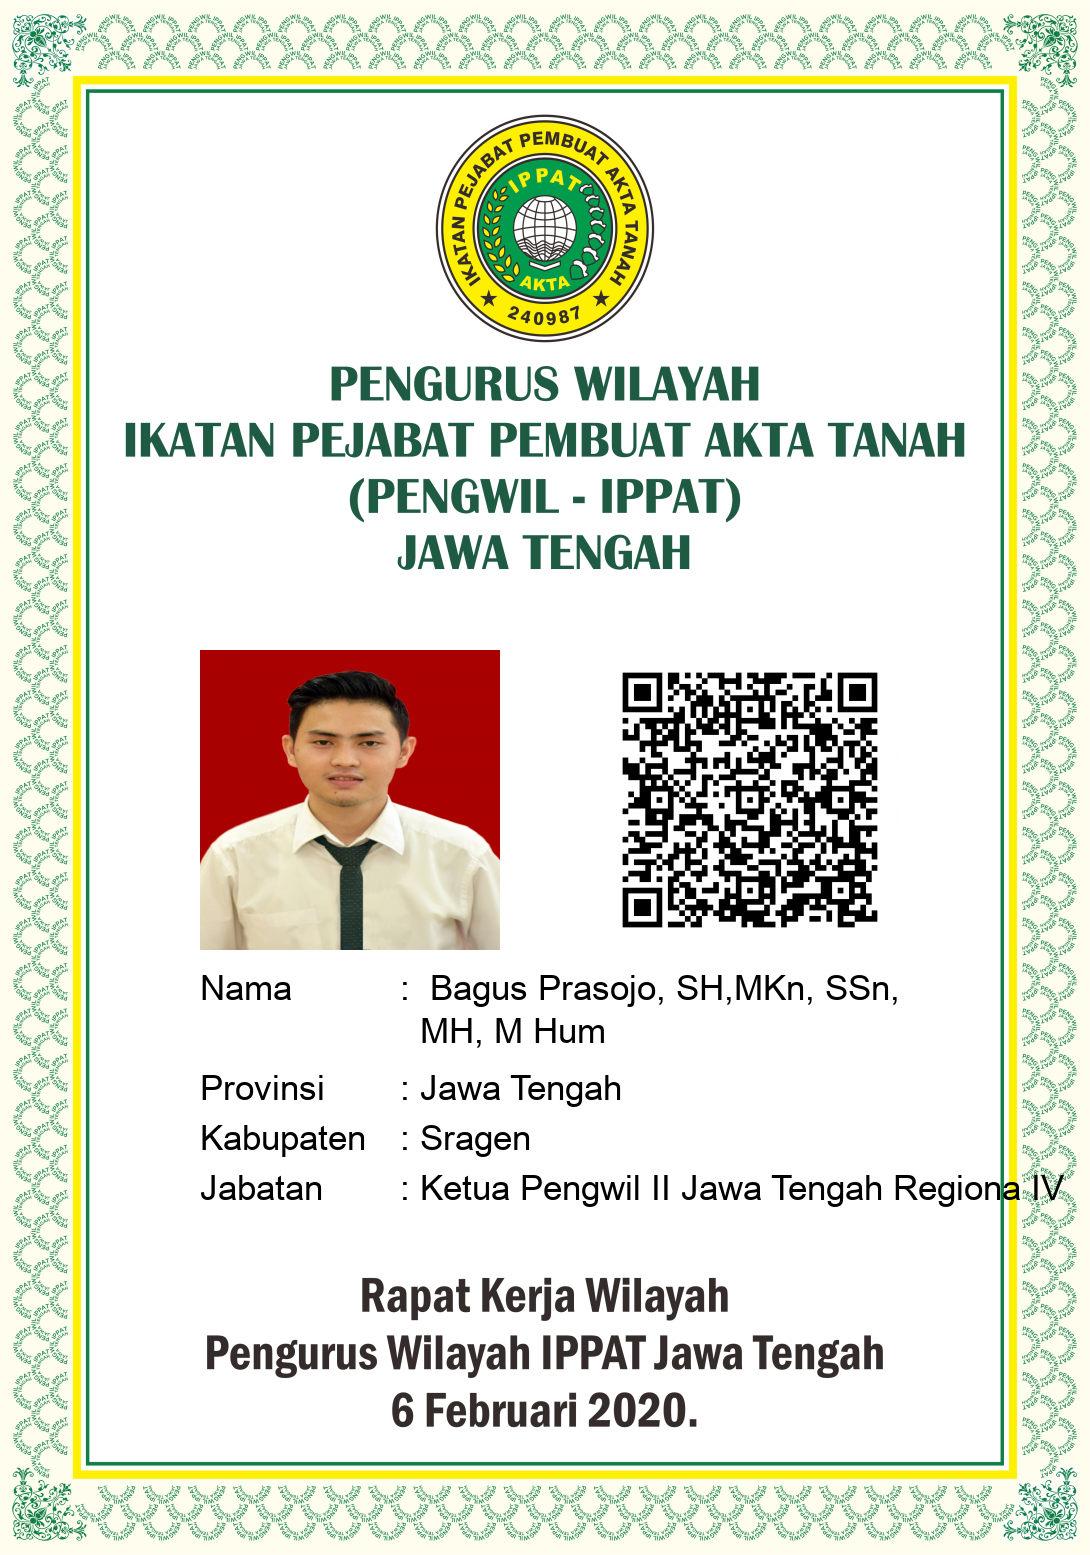
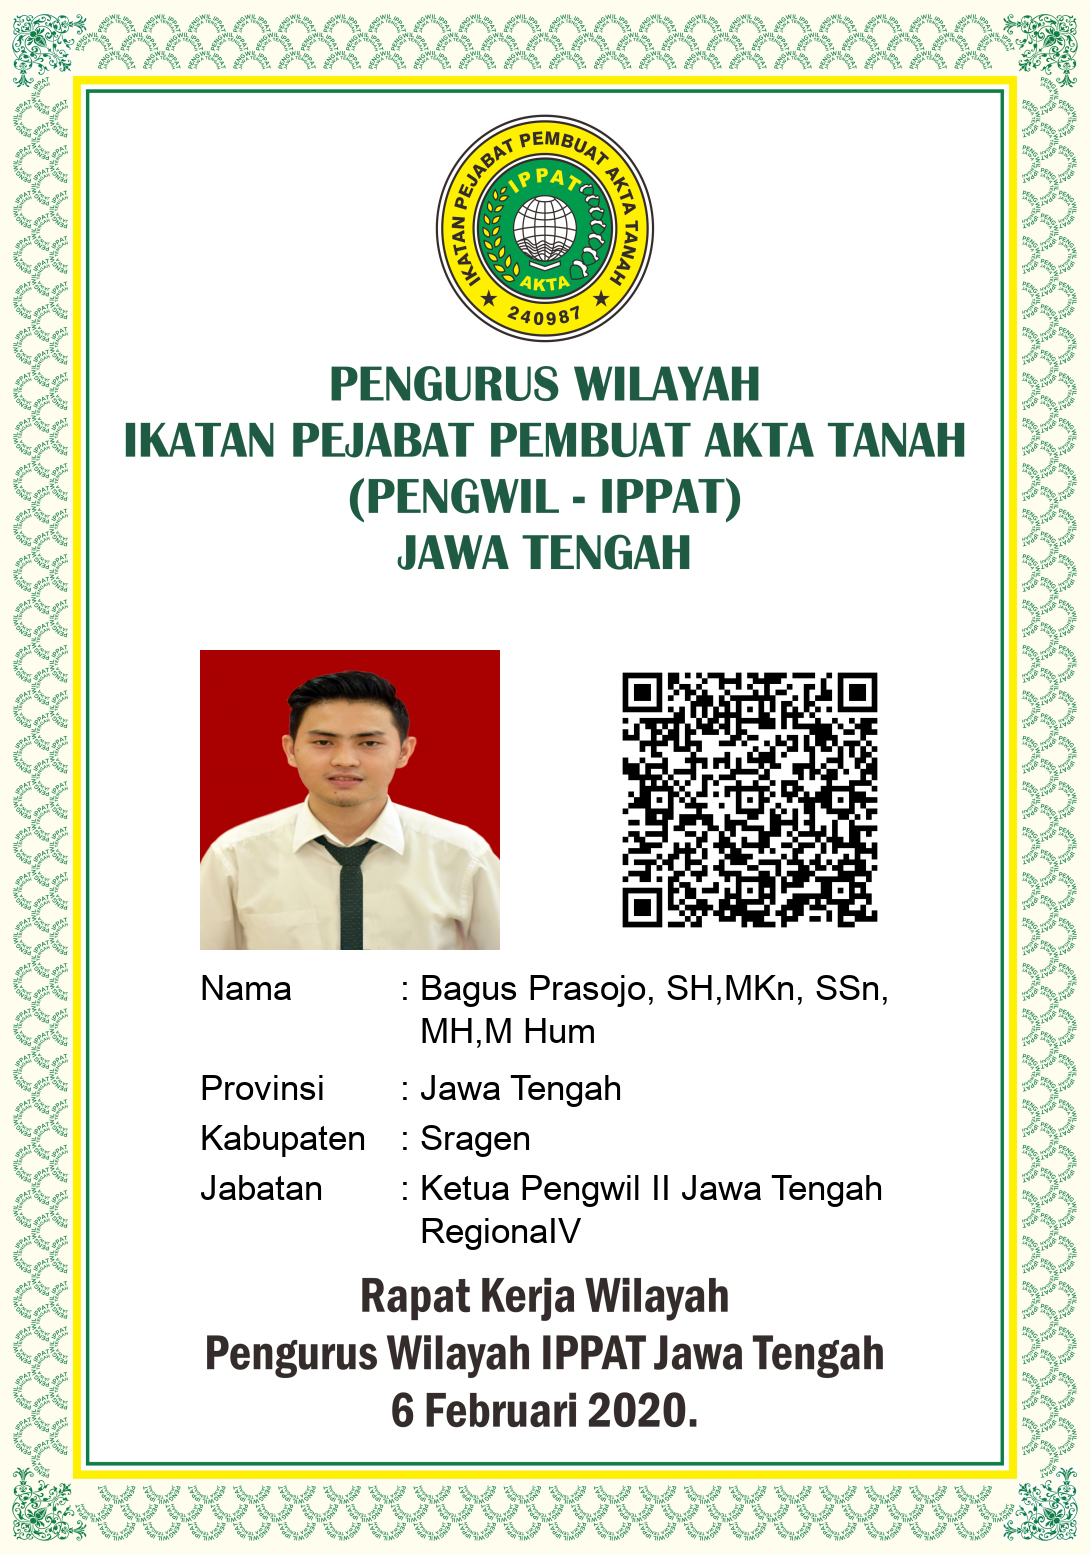
admin bisa cetak id card

Changed region(s): [[0.3743, 0.6174, 0.811, 0.6791], [0.811, 0.7408, 0.967, 0.7717], [0.3743, 0.7717, 0.5303, 0.8026]]

diff --git a/css/style.css b/css/style.css
@@ -1744,7 +1744,11 @@ body{
 	border:none;
 }
 
-
+.pendaftaran .bawah .kiri h1{
+	color: red;
+	font-family: 'GothamBook';
+	font-size:16px;
+}
 
 .pendaftaran .bawah .kiri form{
 	float:left;

diff --git a/pendaftaran_id_card.php b/pendaftaran_id_card.php
@@ -46,8 +46,36 @@ $page_name = 'pendaftaran';
             }
         }
 
+        function WordWrap_BP($AKata){
+            $text_new = trim($AKata);
+
+            $isSudahTurun = 0;
+            if (strlen($text_new) >= 29) {
+                $text_a = explode(' ', trim($text_new));
+                
+                $text_new = '';
+                foreach($text_a as $word){
+                    #$text_new = $text_new .' '.$word;
+                    if(strlen($text_new .' '.$word) > 29 and $isSudahTurun == 0){
+                        $text_new .= "\n".$word;
+                        $isSudahTurun = 1;
+                    } else {
+                        $text_new .= $word . " ";
+                    }
+                }
+            }
+            
+            return $text_new;
+        }
+
         $peserta = new peserta();
-        $peserta->id = $_SESSION['id'];
+
+        $id_id_card = isset($_GET['id_id_card']) ? $_GET['id_id_card'] : '';
+        if ($id_id_card == ''){
+            $peserta->id = $_SESSION['id'];
+        } else {
+            $peserta->id = $id_id_card;
+        }
 
         $db_akses = new db_akses();
         $db_akses->LoadByID($peserta);
@@ -105,23 +133,27 @@ $page_name = 'pendaftaran';
         Imagettftext($frame, $font_size, 0, $start_x, $start_y, $black, $font, "Nama");
         Imagettftext($frame, $font_size, 0, $start_x + 200, $start_y  , $black, $font, ":");
         
-        $isSudahTurun = 0;
-        if (strlen($peserta->nama) >= 29) {
-            $text_a = explode(' ', trim($peserta->nama));
-            $text_new = '';
-            foreach($text_a as $word){
-                #$text_new = $text_new .' '.$word;
-                if(strlen($text_new .' '.$word) > 29 and $isSudahTurun == 0){
-                    $text_new .= "\n".$word;
-                    $isSudahTurun = 1;
-                } else {
-                    $text_new .= " ".$word;
-                }
-            }
-        }
-        Imagettftext($frame, $font_size, 0, $start_x + 220, $start_y  , $black, $font, $text_new);
+        // $text_new = $peserta->nama;
 
-        if ($isSudahTurun == 1){
+        // $isSudahTurun = 0;
+        // if (strlen($peserta->nama) >= 29) {
+        //     $text_a = explode(' ', trim($peserta->nama));
+            
+        //     $text_new = '';
+        //     foreach($text_a as $word){
+        //         #$text_new = $text_new .' '.$word;
+        //         if(strlen($text_new .' '.$word) > 29 and $isSudahTurun == 0){
+        //             $text_new .= "\n".$word;
+        //             $isSudahTurun = 1;
+        //         } else {
+        //             $text_new .= " ".$word;
+        //         }
+        //     }
+        // } 
+
+        Imagettftext($frame, $font_size, 0, $start_x + 220, $start_y  , $black, $font, WordWrap_BP($peserta->nama));
+
+        if (strlen(trim($peserta->nama)) >= 29) {
             $start_y = $start_y + 50;
         }
         
@@ -138,7 +170,7 @@ $page_name = 'pendaftaran';
         $start_y = $start_y + 50;
         Imagettftext($frame, $font_size, 0, $start_x, $start_y, $black, $font, "Jabatan");
         Imagettftext($frame, $font_size, 0, $start_x + 200, $start_y, $black, $font, ":");
-        Imagettftext($frame, $font_size, 0, $start_x + 220, $start_y, $black, $font, $peserta->jabatan);
+        Imagettftext($frame, $font_size, 0, $start_x + 220, $start_y, $black, $font, WordWrap_BP($peserta->jabatan));
 
         # Save the image to a file
 

diff --git a/pendaftaran_display.php b/pendaftaran_display.php
@@ -84,7 +84,7 @@
                         </div>
                     </div>
                     <div class="kiri">
-                        <form action="pendaftaran_lengkap_proses.php" method="post">
+                        <form>
                             Nama Lengkap Dengan Gelar Akademik : <br>
                             <div class="area">                            
                                 <input type="text" value="<?php echo $peserta->nama?>" name="nama" class="input" placeholder=" Nama Lengkap Sesuai KTP & Gelar">
@@ -101,13 +101,18 @@
                             </div>
 
                             <div class="area">
-                                Propinsi : <br>    
+                                Propinsi Jabatan PPAT: <br>    
                                 <input type="text" value="<?php echo $peserta->propinsi?>" name="propinsi" class="input" placeholder=" Propinsi">
                             </div>
 
                             <div class="area">
-                                Kabupaten / Kota : <br>    
+                                Kabupaten / Kota Jabatan PPAT: <br>    
                                 <input type="text" value="<?php echo $peserta->kabupaten?>" name="kabupaten" class="input" placeholder=" Kabupaten / Kota">
+                            </div>
+
+                            <div class="area">
+                                Alamat Kantor : <br>
+                                <textarea  name = "alamat_kantor" rows="3" cols="20"><?php echo $peserta->alamat_kantor?></textarea>
                             </div>
 
                             <div class="area">
@@ -162,14 +167,10 @@
                                 No Telp Kantor : <br>
                                 <input type="text" value="<?php echo $peserta->no_telp_kantor?>" name="no_telp_kantor" class="input" placeholder=" No Telp Kantor">
                             </div>
-
-                            Dimohon mengisi data dengan benar, kesalahan data bukan tanggung jawab panitia<br/><br/>
-                            
-
-                            <div class="area">
-                                <input type="submit" class="submit" value="UPDATE">
-                            </div>
                         </form>
+
+
+                            
                     </div>
                 </div>	
             </div>    

diff --git a/pendaftaran_lengkap.php b/pendaftaran_lengkap.php
@@ -105,13 +105,18 @@
                             </div>
 
                             <div class="area">
-                                Propinsi : <br>    
+                                Propinsi Jabatan PPAT: <br>    
                                 <input type="text" value="<?php echo $peserta->propinsi?>" name="propinsi" class="input" placeholder=" Propinsi">
                             </div>
 
                             <div class="area">
-                                Kabupaten / Kota : <br>    
+                                Kabupaten / Kota Jabatan PPAT: <br>    
                                 <input type="text" value="<?php echo $peserta->kabupaten?>" name="kabupaten" class="input" placeholder=" Kabupaten / Kota">
+                            </div>
+
+                            <div class="area">
+                                Alamat Kantor : <br>
+                                <textarea  name = "alamat_kantor" rows="3" cols="20"><?php echo $peserta->alamat_kantor?></textarea>
                             </div>
 
                             <div class="area">
@@ -128,7 +133,7 @@
                             </div>
 
                             <div class="area">
-                                Jabatan : <br>    
+                                Jabatan : <a href='https://pengwilippatjateng.org/pendaftaran/data/module/004%2021%2012%2019%20Penyusunan%20ProKer%20Pengwil%20IPPAT%20Jateng%20v%2029%2001%202020.pdf' target="_blank"> Lihat Daftar Jabatan</a><br>    
                                 <input type="text" value="<?php echo $peserta->jabatan?>" name="jabatan" class="input" placeholder=" Jabatan">
                             </div>
 

diff --git a/pendaftaran_lengkap_proses.php b/pendaftaran_lengkap_proses.php
@@ -12,6 +12,7 @@ $tempat_lahir       = $db_akses->mysqli_real_escape_string($_POST['tempat_lahir'
 
 $propinsi           = $db_akses->mysqli_real_escape_string($_POST['propinsi']);
 $kabupaten          = $db_akses->mysqli_real_escape_string($_POST['kabupaten']);
+$alamat_kantor      = $db_akses->mysqli_real_escape_string($_POST['alamat_kantor']);
 
 $fungsi             = $db_akses->mysqli_real_escape_string($_POST['fungsi']);
 $jabatan            = $db_akses->mysqli_real_escape_string($_POST['jabatan']);
@@ -55,6 +56,12 @@ if ($kabupaten == '')
     exit("<script>window.alert('Kabupaten belum diisi, mohon dilengkapi terlebih dahulu');
     document.location.href='javascript:history.go(-1)';</script>");
 } 
+
+if ($alamat_kantor == '')
+{
+    exit("<script>window.alert('Alamat Kantor belum diisi, mohon dilengkapi terlebih dahulu');
+    document.location.href='javascript:history.go(-1)';</script>");
+}
 
 if ($alamat_rumah == '')
 {
@@ -114,6 +121,7 @@ if ($nama == '' or $tempat_lahir == '' or $tgl_lahir == '')
 
     $peserta->propinsi          = $propinsi;
     $peserta->kabupaten         = $kabupaten;
+    $peserta->alamat_kantor     = $alamat_kantor;
 
     $peserta->fungsi            = $fungsi;
     $peserta->jabatan           = $jabatan;

diff --git a/model/peserta.php b/model/peserta.php
@@ -87,6 +87,7 @@ class peserta implements DAO{
     public $kabupaten;
 
     public $alamat_rumah;
+    public $alamat_kantor;
     public $no_ktp;
 
     public $fungsi;
@@ -125,6 +126,7 @@ class peserta implements DAO{
         $sSQL = $sSQL . " , email = '" . $this->email . "'";
         $sSQL = $sSQL . " , tgl_lahir = '" . $this->tgl_lahir . "'";
         $sSQL = $sSQL . " , alamat_rumah = '" . $this->alamat_rumah . "'";
+        $sSQL = $sSQL . " , alamat_kantor = '" . $this->alamat_kantor . "'";
 
         $sSQL = $sSQL . " , propinsi = '" . $this->propinsi . "'";
         $sSQL = $sSQL . " , kabupaten = '" . $this->kabupaten . "'";
@@ -168,6 +170,8 @@ class peserta implements DAO{
             $this->tempat_lahir      = $AObjectSQLArray['tempat_lahir'];
             $this->tgl_lahir         = $AObjectSQLArray['tgl_lahir'];
             $this->alamat_rumah      = $AObjectSQLArray['alamat_rumah'];
+
+            $this->alamat_kantor     = $AObjectSQLArray['alamat_kantor'];
 
             $this->propinsi          = $AObjectSQLArray['propinsi'];
             $this->kabupaten         = $AObjectSQLArray['kabupaten'];

diff --git a/pendaftaran_list.php b/pendaftaran_list.php
@@ -36,7 +36,7 @@ $page_name = 'pendaftaran';
             <div class="bawah">                
 
             <?php
-                $q5 = "SELECT * FROM seminar_peserta";
+                $q5 = "SELECT * FROM seminar_peserta order by nama";
                 $r5 = $db_akses->OpenQuery($q5);
                 echo '<div style="overflow-x:auto;">
                 <table border = 1 class="flyer" cellpadding="20" cellspacing="0" align="left" width="100%">
@@ -82,6 +82,7 @@ $page_name = 'pendaftaran';
                           <tr>
                           <td colspan=4 align="left"> '.$row['alamat_rumah'].'</td>
                           <td colspan=3 align="left"> 
+                          <a href="pendaftaran_id_card.php?id_id_card='.$row['id'].'">Cetak ID Card</a> |
                           <a href="pendaftaran_konfirmasi.php?id='.$row['id'].'">Konfirmasi</a> | 
                           <a href="pendaftaran_delete.php?id='.$row['id'].'">Hapus</a> | 
                           <a href="pendaftaran_set_as_admin.php?id='.$row['id'].'&status_admin='.$status_admin.'">'.$set_as_admin.'</a>

diff --git a/index.php b/index.php
@@ -33,6 +33,7 @@ $page_name = 'pendaftaran';
 	    <div class="pendaftaran">        	
             <div class="bawah">                
                 <div class="kiri">
+                    <div class="info">Batas Akhir pendaftaran Rakerwil IPPAT 2020  tanggal 4 Februari 2020. Pukul 23.59 WIB<div>
                     <form action="pendaftaran_proses.php" method="post">
                         <div class="area">
                             <input type="text" name="nama" class="input" placeholder=" Nama">
